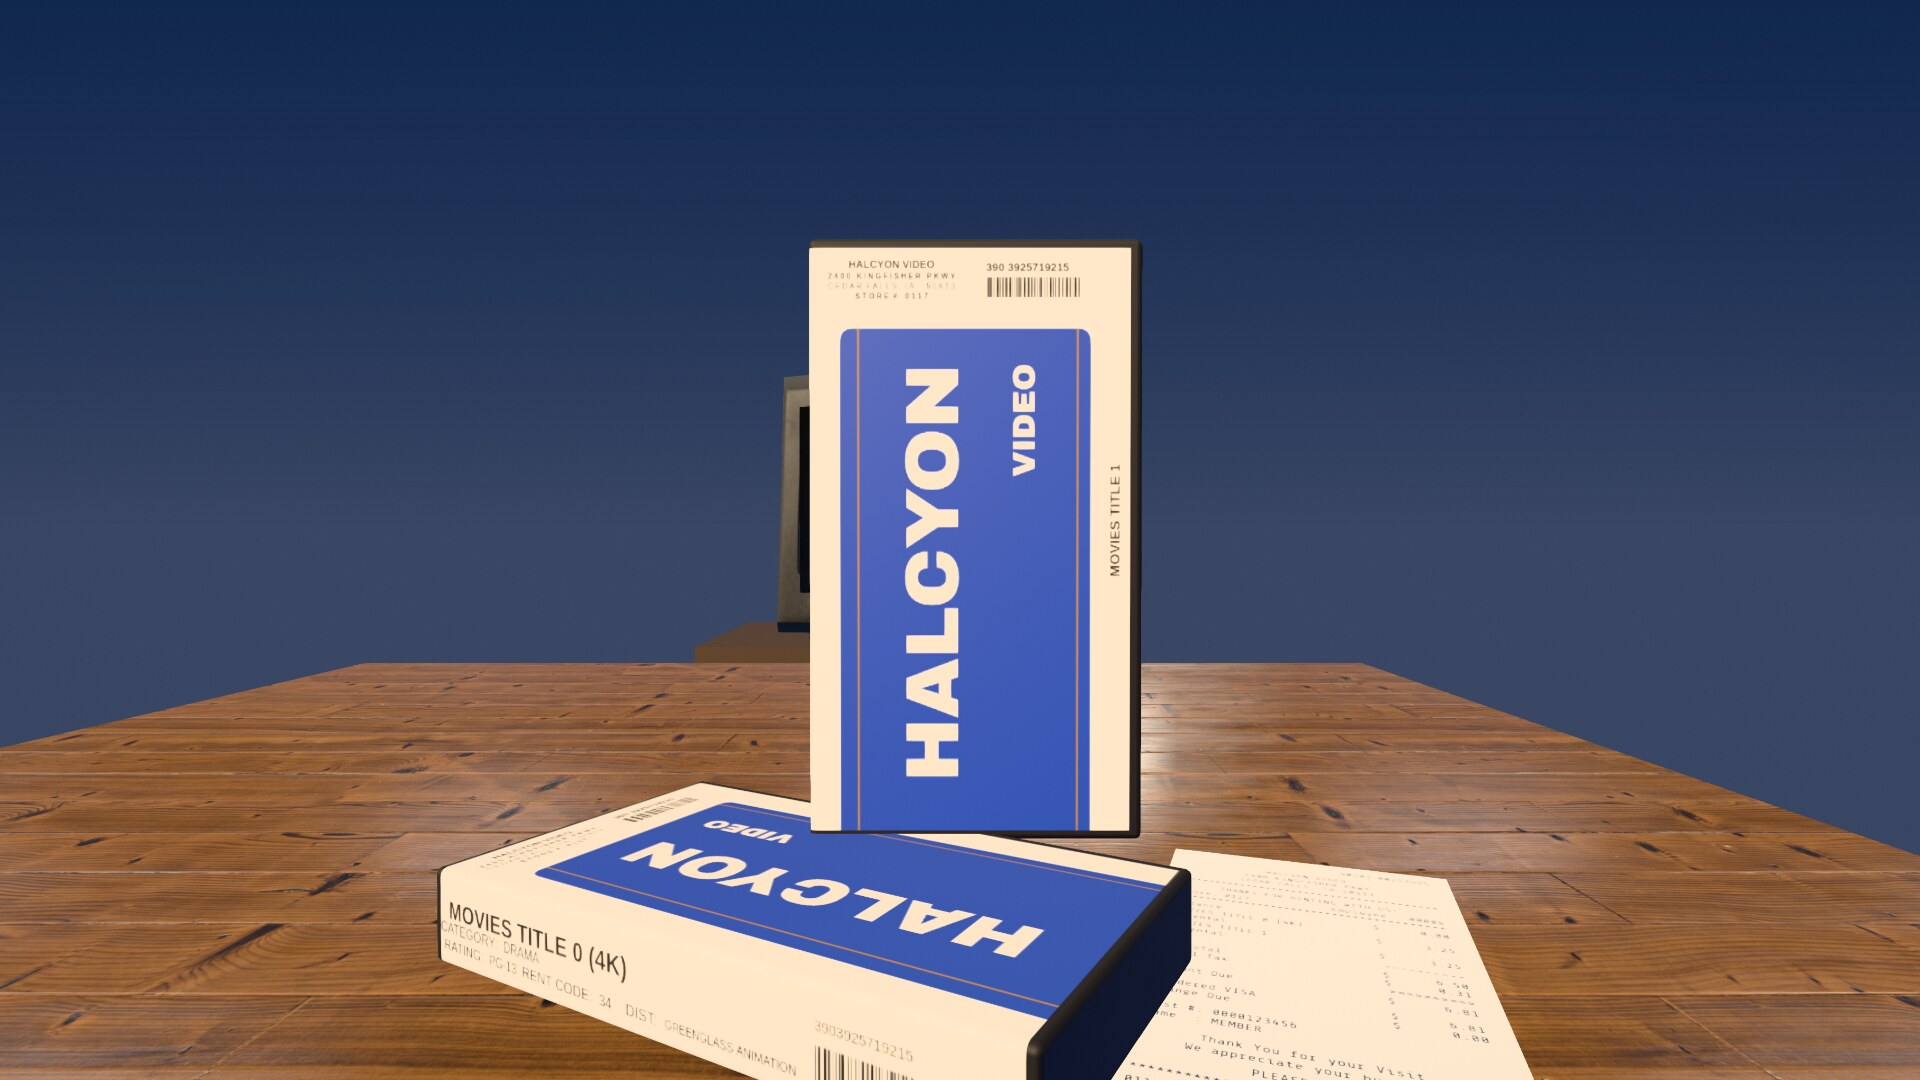
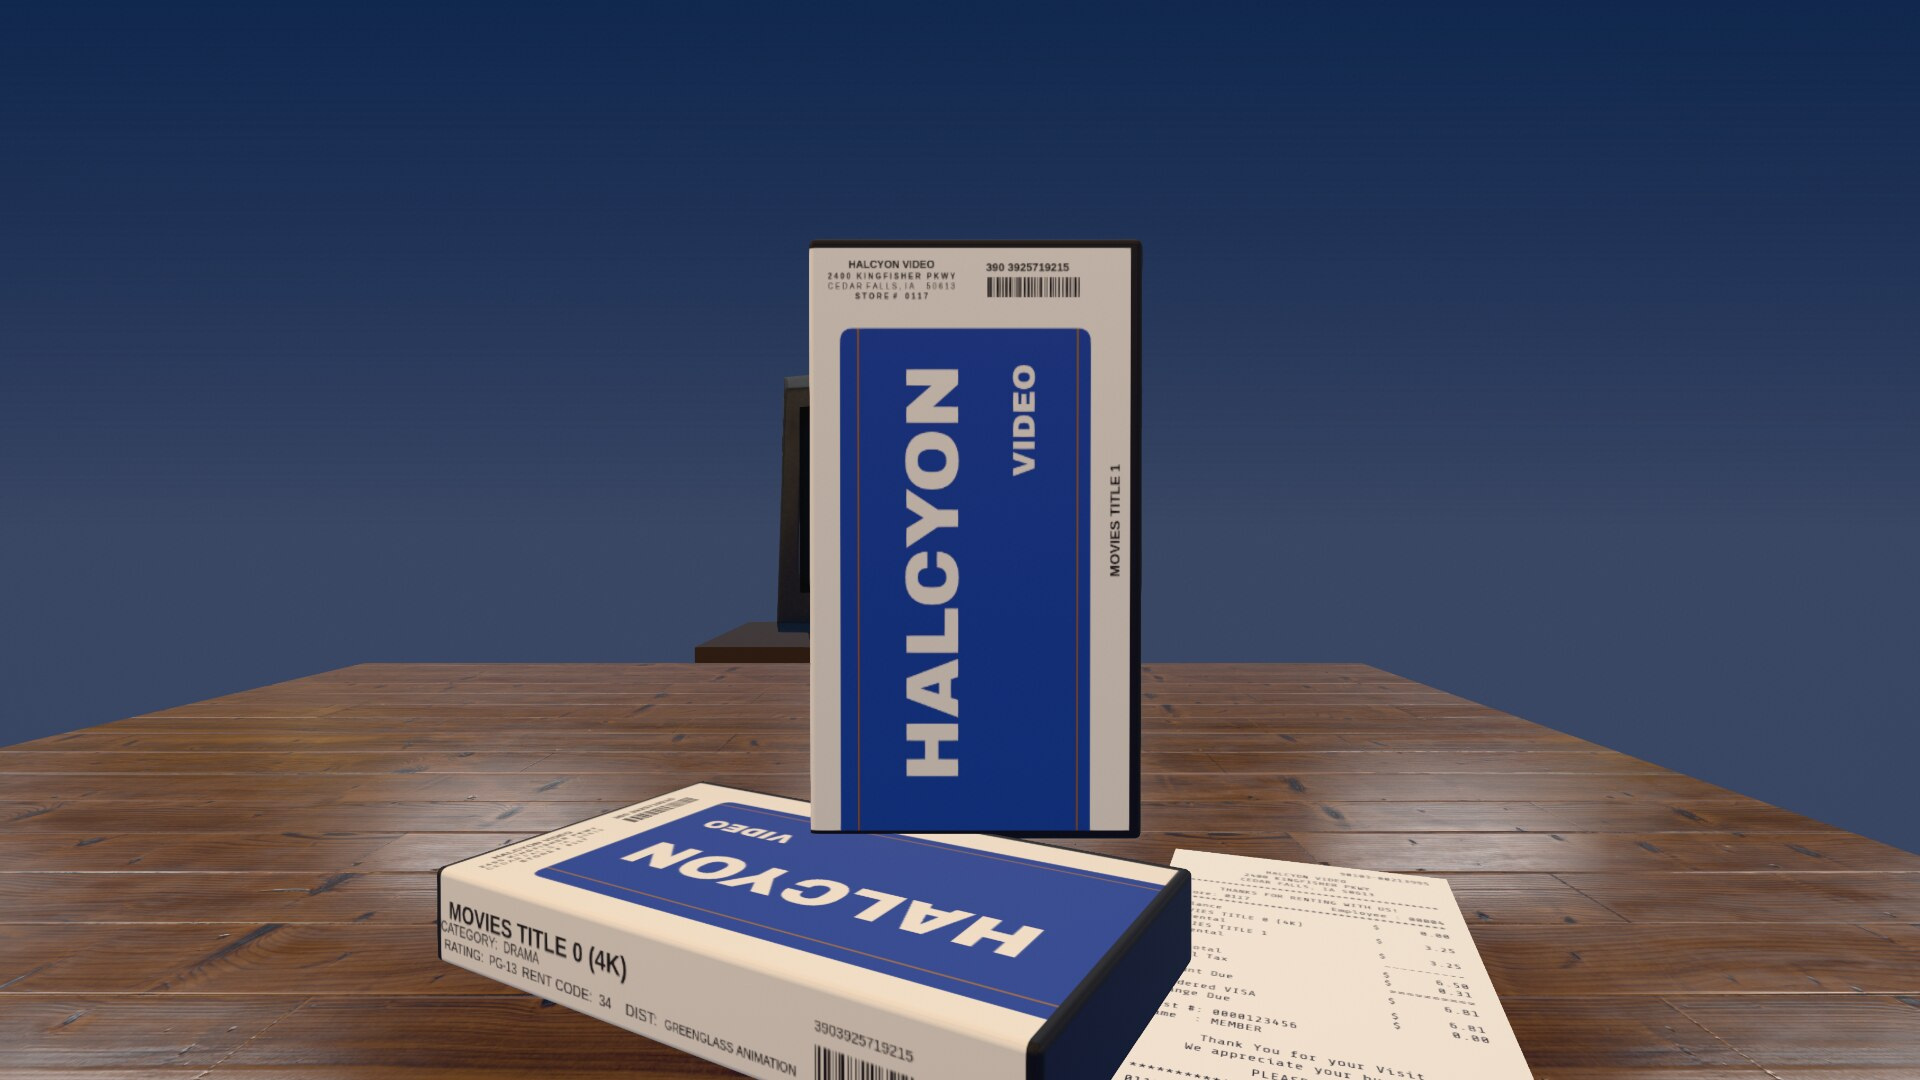
Ground the tapes and the receipt on the table
Nothing on the table top cast anything. The room is lit by one small rig that
deliberately casts no real shadows — addOwned forces castShadow/receiveShadow
off on every mesh, and the set sits past the sun's shadow frustum anyway — so
the only grounding cue was a drawn gradient on the FLOOR under the furniture
cluster. That was enough while the camera sat back at eye height taking in the
whole room. It stopped being enough the moment the view came down to inches off
the surface: the pile and the slip are the entire frame now, and both were
lying on wood with nothing beneath them, reading as decals printed on the table
rather than objects resting on it.

Same technique as the floor, one surface up. The canvas-gradient builder is
extracted to softShadowTexture(peak, mid) and both call sites share it.

The offset is the part that matters. A blob centred under the stack is almost
entirely hidden BY the stack — that was the first attempt and it still read as
no shadow. The key is the warm point at (-5.5, 6.0, 2.4), so from the pile the
throw runs +x and slightly -z; pushing the blob along normalize(5.65, -0.98)
by a stack's-worth spills it onto bare wood on the far side, where it can
actually be seen, and it is elongated along that same axis.

The slip gets a much fainter one barely offset at all: paper lying flat has no
gap underneath to shadow, so that is an edge-darkening cue, not a cast shadow.

No new per-frame cost — two extra unlit transparent quads, built once with the
[…]

diff --git a/src/back-room.ts b/src/back-room.ts
@@ -93,6 +93,30 @@ const SPINE_STOP_YAW = -Math.PI * 1.5 - 0.28;
 // bottom edge also reads from the viewer's seat. Per-level jitter adds on top.
 const STACK_REST_YAW = Math.PI / 2 - 0.35;
 
+/**
+ * Soft radial contact-shadow texture — this room's stand-in for a shadow map.
+ * The set is lit by one small rig that casts nothing (addOwned forces
+ * castShadow/receiveShadow off), and it sits past the sun's shadow frustum
+ * anyway, so every "shadow" here is a drawn gradient laid on the surface
+ * beneath the object. `peak` is the alpha directly under it, `mid` the alpha
+ * at 60% of the radius; both reach zero at the edge.
+ */
+function softShadowTexture(peak: number, mid: number): THREE.CanvasTexture {
+  const canvas = document.createElement('canvas');
+  canvas.width = 128;
+  canvas.height = 128;
+  const ctx = canvas.getContext('2d')!;
+  const g = ctx.createRadialGradient(64, 64, 8, 64, 64, 64);
+  g.addColorStop(0, `rgba(10, 18, 40, ${peak})`);
+  g.addColorStop(0.6, `rgba(10, 18, 40, ${mid})`);
+  g.addColorStop(1, 'rgba(10, 18, 40, 0)');
+  ctx.fillStyle = g;
+  ctx.fillRect(0, 0, 128, 128);
+  const tex = new THREE.CanvasTexture(canvas);
+  tex.colorSpace = THREE.SRGBColorSpace;
+  return tex;
+}
+
 export class BackRoom {
   public state: BackRoomState = 'view';
   public focusedIdx = 0;
@@ -174,6 +198,7 @@ export class BackRoom {
     this.placeTvAndDeck(tv, deck);
     this.buildTapes(movies, tableTopY);
     this.buildDueNote(tableTopY);
+    this.buildTableContactShadows(tableTopY);
     this.buildVcrClock();
     this.redrawClocks(true);
   }
@@ -272,26 +297,68 @@ export class BackRoom {
 
     // Soft contact shadow under the furniture cluster (table + TV stand) so
     // the props sit ON the floor instead of hovering over flat colour.
-    const shadowCanvas = document.createElement('canvas');
-    shadowCanvas.width = 128;
-    shadowCanvas.height = 128;
-    const sctx = shadowCanvas.getContext('2d')!;
-    const sg = sctx.createRadialGradient(64, 64, 8, 64, 64, 64);
-    sg.addColorStop(0, 'rgba(10, 18, 40, 0.42)');
-    sg.addColorStop(0.6, 'rgba(10, 18, 40, 0.22)');
-    sg.addColorStop(1, 'rgba(10, 18, 40, 0)');
-    sctx.fillStyle = sg;
-    sctx.fillRect(0, 0, 128, 128);
-    const shadowTex = new THREE.CanvasTexture(shadowCanvas);
-    shadowTex.colorSpace = THREE.SRGBColorSpace;
     const shadow = new THREE.Mesh(
       new THREE.CircleGeometry(1, 32),
-      new THREE.MeshBasicMaterial({ map: shadowTex, transparent: true, depthWrite: false }),
+      new THREE.MeshBasicMaterial({ map: softShadowTexture(0.42, 0.22), transparent: true, depthWrite: false }),
     );
     shadow.rotation.x = -Math.PI / 2;
     shadow.position.set(0, 0.01, -2.0); // spans the table (z≈0.9) and TV stand (z≈-5.3)
     shadow.scale.set(6.5, 5.6, 1);
     this.addOwned(shadow);
+  }
+
+  /**
+   * Contact shadows on the TABLE TOP.
+   *
+   * The cluster shadow above grounds the furniture to the floor, and for a
+   * view taken from eye height across the room that was the whole job. It
+   * isn't any more: the camera now sits inches off the surface (VIEW_POS), so
+   * the pile and the slip ARE the frame, and both were lying on wood with
+   * nothing under them — reading as decals on the table rather than objects on
+   * it. Same technique as the floor for the same reason: this room's one small
+   * light rig casts no real shadows (see addOwned), so the grounding cue has
+   * to be drawn.
+   *
+   * Both sit above the table and below what they ground — the lowest case's
+   * underside is at +0.008 and the slip's at +0.006 (see buildTapes /
+   * buildDueNote), so there is room for each without z-fighting the wood.
+   */
+  private buildTableContactShadows(tableTopY: number): void {
+    // Under the pile. Darker and tighter than the floor's: this is a stack of
+    // clamshells sitting flat on a hard surface a few inches from the lamp,
+    // not a whole furniture cluster on a dim floor.
+    const pile = new THREE.Mesh(
+      new THREE.CircleGeometry(1, 24),
+      new THREE.MeshBasicMaterial({ map: softShadowTexture(0.5, 0.26), transparent: true, depthWrite: false }),
+    );
+    pile.rotation.x = -Math.PI / 2;
+    // OFFSET, not centred. A blob centred under the stack is almost entirely
+    // occluded by the stack itself — which is how the first pass read as no
+    // shadow at all. The key is the warm point at (-5.5, 6.0, 2.4) (buildLights),
+    // so from the pile at (0.15, ~1.42) the throw runs +x and slightly -z:
+    // normalize(5.65, -0.98) ≈ (0.985, -0.171). Push the blob that way by a
+    // stack's-worth and it spills out on the far side, against bare wood, where
+    // it can actually be seen. Elongated along the same axis for the same reason.
+    pile.position.set(0.15 + 0.197, tableTopY + 0.004, 1.42 - 0.034);
+    pile.scale.set(0.72, 0.44, 1); // clamshell footprint plus the gradient's falloff
+    this.addOwned(pile);
+
+    // Under the slip. Paper lying flat has almost no gap to shadow, so this is
+    // much fainter, and it carries the slip's own -0.34 skew rather than
+    // sitting square to the table — a shadow square to a skewed object is more
+    // obviously wrong than no shadow at all.
+    const slip = new THREE.Mesh(
+      new THREE.PlaneGeometry(1, 1),
+      new THREE.MeshBasicMaterial({ map: softShadowTexture(0.3, 0.13), transparent: true, depthWrite: false }),
+    );
+    slip.rotation.order = 'YXZ';
+    slip.rotation.x = -Math.PI / 2;
+    slip.rotation.y = -0.34;
+    // Barely offset along the same throw: a sheet lying flat has no gap under
+    // it to shadow, so this is an edge-darkening cue, not a cast shadow.
+    slip.position.set(0.66 + 0.030, tableTopY + 0.003, 1.58 - 0.005);
+    slip.scale.set(0.52, 1.18, 1);
+    this.addOwned(slip);
   }
 
   private buildLights(): void {
